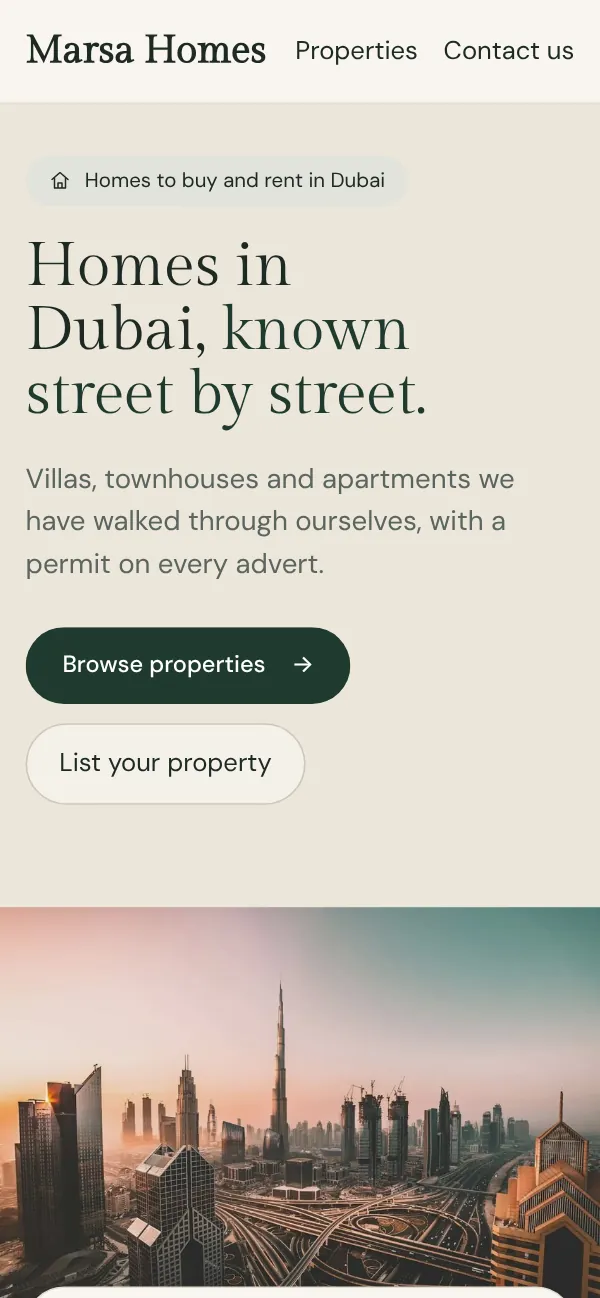
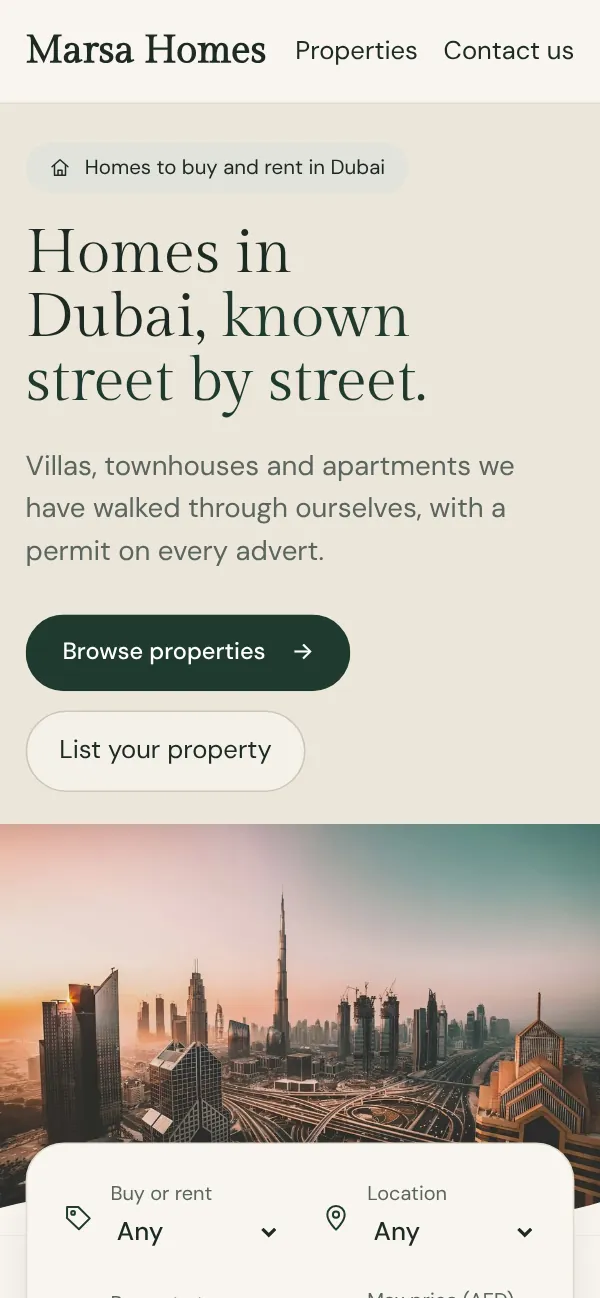
listings-uae boutique: denser and curvier, as the reference layout
A curved hero edge, numbers counted from the published listings under
the search bar, an organic about photo with a round second photo,
communities as arched tiles with their number of homes, property-type
chips, cards with one large corner, and the agents next to the
valuation card. Sections sit closer together. The gallery demo gets
three sample client reviews (marked "(sample)"); the template's
testimonials seed stays empty.

Claude-Session: https://claude.ai/code/session_016s5QLsuPofo7stQcsmfBtZ

diff --git a/internal/platform/demodata.go b/internal/platform/demodata.go
@@ -572,5 +572,32 @@ func listingsDemoSchedule(ctx context.Context, db *sql.DB, now time.Time) error 
 			return err
 		}
 	}
+	return listingsDemoReviews(ctx, db)
+}
+
+// Sample client reviews for the demo only, so its home page shows the reviews
+// section. The template handed to owners keeps the table empty: a real site
+// shows reviews only when its owner adds real ones.
+func listingsDemoReviews(ctx context.Context, db *sql.DB) error {
+	var n int
+	if err := db.QueryRowContext(ctx, `SELECT count(*) FROM testimonials`).Scan(&n); err != nil || n > 0 {
+		return nil // an older demo without the table, or already filled
+	}
+	for i, r := range []map[string]any{
+		{"quote": "They showed us three villas in one afternoon and told us plainly which one was overpriced. We moved in six weeks later.",
+			"quote_ar": "عرضوا علينا ثلاث فلل في ظهيرة واحدة وأخبرونا بصراحة أيها سعرها مبالغ فيه. انتقلنا بعد ستة أسابيع.",
+			"name":     "Rebecca L. (sample)", "area": "Arabian Ranches", "area_ar": "المرابع العربية"},
+		{"quote": "Every advert had its permit number and the flat looked exactly like the photos. No surprises at the viewing.",
+			"quote_ar": "كل إعلان يحمل رقم التصريح والشقة كانت تماماً كما في الصور. لا مفاجآت عند المعاينة.",
+			"name":     "Yousef D. (sample)", "area": "Dubai Marina", "area_ar": "دبي مارينا"},
+		{"quote": "I booked the viewing online at night and had a WhatsApp confirmation before breakfast.",
+			"quote_ar": "حجزت المعاينة عبر الإنترنت ليلاً ووصلني التأكيد عبر واتساب قبل الإفطار.",
+			"name":     "Arjun M. (sample)", "area": "Business Bay", "area_ar": "الخليج التجاري"},
+	} {
+		r["position"], r["active"] = i+1, 1
+		if err := insertDemoRow(ctx, db, "testimonials", r); err != nil {
+			return err
+		}
+	}
 	return nil
 }

diff --git a/internal/platform/listings_boutique_test.go b/internal/platform/listings_boutique_test.go
@@ -20,7 +20,8 @@ func TestListingsBoutiqueTheme(t *testing.T) {
 		`<form class="v-find" method="get" action="/search"`, `name="purpose"`, `name="community"`, `<option value="Dubai Marina">`, `name="type"`, `name="max"`,
 		"Real estate, the personal way.", "Licensed brokers", "A permit on every advert", "Viewings at your time",
 		`id="v-track"`, `data-scroll="1"`, `class="v-card" href="/l/1"`, "MH-1001", "AED 2,350,000", "2 bedrooms", "Omar Al Hashimi",
-		`class="v-sell"`, `class="site-foot b-foot"`, "Property types", `href="/search?type=villa"`} {
+		`class="v-close"`, `class="v-curve"`, `class="v-stats"`, `<strong>9</strong><span>Properties</span>`, `<strong>5</strong><span>For rent</span>`,
+		`class="v-area" href="/search?community=Dubai%20Marina"`, "2 properties", "1 property", `class="v-chips"`, `href="/search?type=villa">Villa<span>2</span>`, `class="site-foot b-foot"`, "Property types", `href="/search?type=villa"`} {
 		if !strings.Contains(home, want) {
 			t.Errorf("boutique home lacks %q", want)
 		}

diff --git a/docs/design/templates.md b/docs/design/templates.md
@@ -123,6 +123,13 @@ of cards with arrows (purpose label, beds, baths, area, reference, price); up to
 only when the owner adds real ones (empty in the seed); the agents; a brand-colour valuation band; a "Browse properties" button in
 the header and a four-column footer with property types.
 
+The listings layout is the reference for density and shape in boutique layouts: sections sit 28-44px apart; every block carries
+real data (numbers counted from the published listings under the search bar, communities as arched tiles with their number of
+homes, property-type chips with counts); photos are never plain rectangles (a curved hero edge, an organic about photo with a
+round second photo, arched tiles, cards with one large corner) and thin ring or curve ornaments (`.v-deco`) sit behind them.
+Sample client reviews exist only in the gallery demo (`listingsDemoReviews`, names marked "(sample)"); the template's
+`testimonials` seed stays empty.
+
 quote-portal-uae has its own (`home_boutique`, classes `s-…`), seeded in gold `#C9A14A` on a navy night palette with plain capitals
 (DM Sans) instead of the serif: a photo hero (`hero_image`, faded into navy on the text side) with a gold rule, the label
 (`business.eyebrow`), a headline (`headline` + `tagline_accent` in gold) and `intro`; a badge with the trade licence, or the years in
